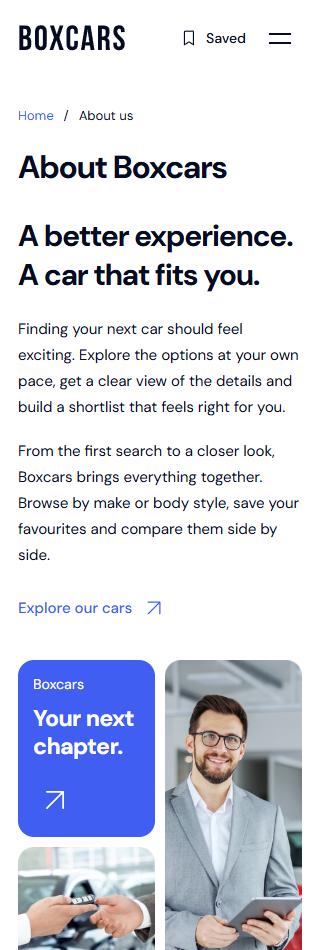
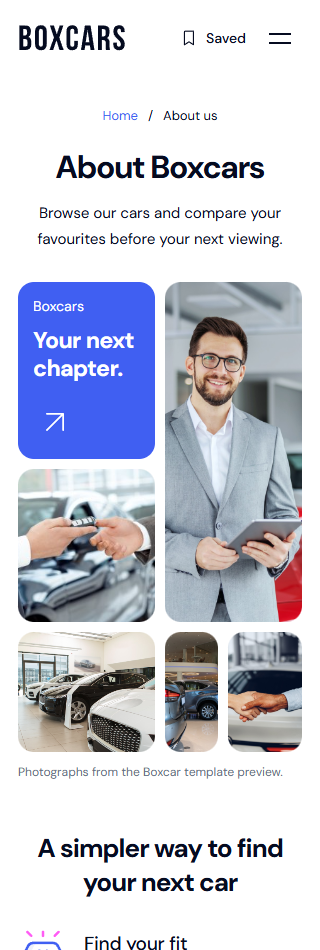
Center Boxcar About introduction and remove duplicate headline

diff --git a/templates/boxcar-updated/src/pages/About.svelte b/templates/boxcar-updated/src/pages/About.svelte
@@ -39,7 +39,7 @@
   ];
 </script>
 
-<!-- Adapted from about.html's upper-box, five-image gallery and benefit blocks. -->
+<!-- Boxcar gallery and illustrations with one centered dealer introduction. -->
 <section class="bc-inner about-inner-one">
   <div class="bc-container">
     <nav class="bc-breadcrumb" aria-label="Breadcrumb">
@@ -47,30 +47,11 @@
       <span>/</span>
       <span aria-current="page">About us</span>
     </nav>
-    <h1 class="bc-page-title">About {brand.name}</h1>
-    <div class="upper-box">
-      <div class="boxcar-title">
-        <h2>
-          A better experience.
-          <br />
-          A car that fits you.
-        </h2>
-      </div>
-      <div class="content-box">
-        <p>
-          Finding your next car should feel exciting. Explore the options at
-          your own pace, get a clear view of the details and build a shortlist
-          that feels right for you.
-        </p>
-        <p>
-          From the first search to a closer look, {brand.name} brings everything together.
-          Browse by make or body style, save your favourites and compare them side
-          by side.
-        </p>
-        <a class="bc-text-link" href="/inventory/">
-          Explore our cars <Icon name="arrow" size={20} />
-        </a>
-      </div>
+    <div class="bc-about-intro">
+      <h1 class="bc-page-title">About {brand.name}</h1>
+      <p>
+        Browse our cars and compare your favourites before your next viewing.
+      </p>
     </div>
     <div class="galler-section" aria-label="Showroom photo gallery">
       <div class="exp-block">

diff --git a/templates/boxcar-updated/src/inner-pages.css b/templates/boxcar-updated/src/inner-pages.css
@@ -90,21 +90,20 @@
   font-weight: 500;
   color: #405ff2;
 }
-.about-inner-one .upper-box {
-  display: grid;
-  grid-template-columns: 1fr 1fr;
-  gap: 90px;
-  align-items: start;
-  margin-bottom: 54px;
+.about-inner-one .bc-breadcrumb {
+  justify-content: center;
 }
-.about-inner-one .upper-box h2 {
-  max-width: 480px;
-  font-size: 40px;
-  line-height: 1.3;
-  margin: 0;
+.bc-about-intro {
+  max-width: 680px;
+  margin: 0 auto 44px;
+  text-align: center;
 }
-.about-inner-one .upper-box p {
-  margin: 0 0 18px;
+.bc-about-intro .bc-page-title {
+  margin-bottom: 16px;
+}
+.bc-about-intro p {
+  max-width: 600px;
+  margin: 0 auto;
 }
 .about-inner-one .galler-section {
   display: grid;
@@ -644,9 +643,6 @@
   font-family: "Boxcar Dealer", Arial, sans-serif;
 }
 @media (max-width: 1199px) {
-  .about-inner-one .upper-box {
-    gap: 48px;
-  }
   .about-inner-one .galler-section {
     height: 380px;
     grid-template-columns: 1.1fr 2fr 2fr;
@@ -734,13 +730,11 @@
   .bc-inner h2 {
     font-size: 26px;
   }
-  .about-inner-one .upper-box {
-    grid-template-columns: 1fr;
-    gap: 22px;
+  .bc-about-intro {
     margin-bottom: 30px;
   }
-  .about-inner-one .upper-box h2 {
-    font-size: 30px;
+  .bc-about-intro .bc-page-title {
+    margin-bottom: 14px;
   }
   .about-inner-one .galler-section {
     height: auto;

diff --git a/docs/boxcar-updated/QA.md b/docs/boxcar-updated/QA.md
@@ -4,13 +4,15 @@ Candidate: `L:/CODEX/cars/templates/boxcar-updated` on Cars `main`, Node 22.23.2
 
 ## About, Contact and Cars correction
 
-About and Contact now adapt the original [About HTML page](https://creativelayers.net/themes/boxcar-html/about.html) and [Contact HTML page](https://creativelayers.net/themes/boxcar-html/contact.html). About uses the five-image gallery, original blue/pink illustrated benefits, balanced introduction, browsing/contact actions and native FAQ details. Contact uses the source's outlined form boxes and bordered contact column, with a showroom photo replacing the unrelated source map. All three routes share the existing header and the source DM Sans face. Scoped styles preserve the ten captured homepages. Dealer copy replaces lorem ipsum and invented statistics/reviews; forms remain truthful local previews.
+About and Contact now adapt the original [About HTML page](https://creativelayers.net/themes/boxcar-html/about.html) and [Contact HTML page](https://creativelayers.net/themes/boxcar-html/contact.html). About uses the five-image gallery, original blue/pink illustrated benefits, one centered page title with a short introduction, browsing/contact actions and native FAQ details. Contact uses the source's outlined form boxes and bordered contact column, with a showroom photo replacing the unrelated source map. All three routes share the existing header and the source DM Sans face. Scoped styles preserve the ten captured homepages. Dealer copy replaces lorem ipsum and invented statistics/reviews; forms remain truthful local previews.
 
 Cars retains its sidebar and three-column desktop stock grid, with cleaner labels, source specification glyphs, actual grid/list SVGs and 20 px detail arrows. A rendered journey caught stale card return URLs when the same vehicle remained mounted after a query/view change. Card destinations now derive from the current route, preserving the filtered list view after a detail visit.
 
 Final checks: Svelte/TypeScript has zero errors and warnings; eight domain/asset tests pass; the production build passes with 156 modules. Nine focused layouts and nine functional journeys pass **per engine** in Chrome and Playwright WebKit at 1440, 390 and 320 px. They cover page bounds, local images, source font, FAQ/actions, required contact inputs, preview/reset behavior, sell/viewing subjects, no saved contact data or message requests, filtering, grid/list view and detail/return context. The broader 59 supporting-page checks and twelve curated journeys also passed per engine in this session; their recorded timestamps distinguish those runs from the final focused checks. The 42 shared-header states per engine still match. No browser or local asset errors were recorded.
 
-- [About desktop](about-desktop.png), [About at 320 px](about-320.png)
+The subsequent About introduction correction removes the extra headline and split introduction. Focused checks pass in Chrome and Playwright WebKit at 1440, 390 and 320 px: one H1, centered title/copy, clear spacing before the gallery, loaded images, page bounds and FAQ/contact actions. Svelte/TypeScript and the production build were rerun successfully. The broader inner-page and curated checks above retain their earlier timestamps; they were not rerun for this heading correction.
+
+- [About introduction](about-intro.png), [About desktop](about-desktop.png), [About at 320 px](about-320.png)
 - [Contact desktop](contact-desktop.png), [Contact form and details](contact-form.png), [Contact at 320 px](contact-320.png)
 - [Cars desktop](cars-desktop.png), [Cars at 320 px](cars-320.png)
 - [Final checks and source hashes](inner-results.json), [original inner-page provenance](../../templates/boxcar-updated/.template/inner-pages.json)

diff --git a/templates/boxcar-updated/TEMPLATE.md b/templates/boxcar-updated/TEMPLATE.md
@@ -10,7 +10,7 @@ The hero search uses the source magnifier SVG at 22 px, aligned with its text la
 
 The ten homepages preserve the original DOM structure, whitespace, section copy, photographs, SVGs, local fonts and layout CSS from the [Boxcar HTML public preview](https://creativelayers.net/themes/boxcar-html/). The captured markup is compiled into Svelte components. Native actions implement menus, tabs and search. A Svelte lifecycle action retains the source's **jQuery and Slick slider core** for faithful carousel behavior. Homepage modules load separately; this is not a complete rewrite of every vendor dependency.
 
-The ten original **HTML** homes remain separate design references. The existing `templates/boxcar` WordPress capture remains its own template. About now adapts the original HTML inner-page introduction, five-image gallery and illustrated benefits; Contact adapts its title, form boxes and bordered contact column. Five original About photographs and four original SVG illustrations are local assets. These pages use scoped source-derived layout rules and dealer copy; they do not reproduce the source's invented statistics, staff identities or reviews. Contact uses a showroom photograph instead of the unrelated source map. Inventory keeps its working Svelte filters, with source card typography, the original specification icon font, proper grid/list icons and larger detail arrows. Vehicle details and the remaining supporting bodies keep their existing adapted layouts. WordPress plugins, accounts and backend services are outside this candidate.
+The ten original **HTML** homes remain separate design references. The existing `templates/boxcar` WordPress capture remains its own template. About uses one centered page title and a short introduction above the original five-image gallery and illustrated benefits; Contact adapts its title, form boxes and bordered contact column. Five original About photographs and four original SVG illustrations are local assets. These pages use scoped source-derived layout rules and dealer copy; they do not reproduce the source's invented statistics, staff identities or reviews. Contact uses a showroom photograph instead of the unrelated source map. Inventory keeps its working Svelte filters, with source card typography, the original specification icon font, proper grid/list icons and larger detail arrows. Vehicle details and the remaining supporting bodies keep their existing adapted layouts. WordPress plugins, accounts and backend services are outside this candidate.
 
 ## Internal homepage references
 
